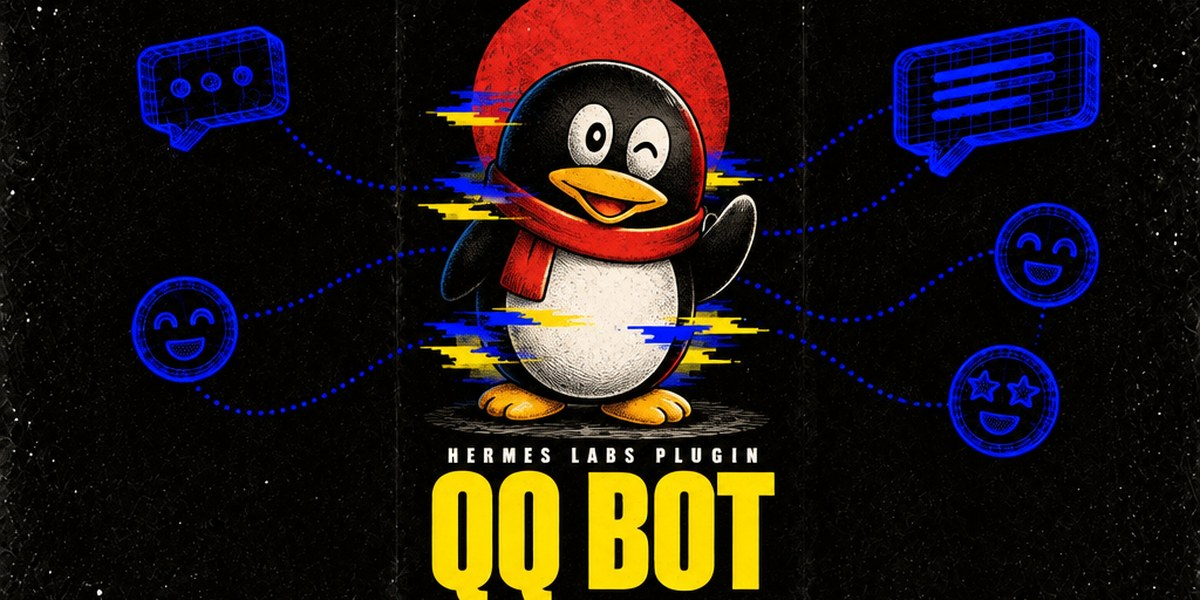
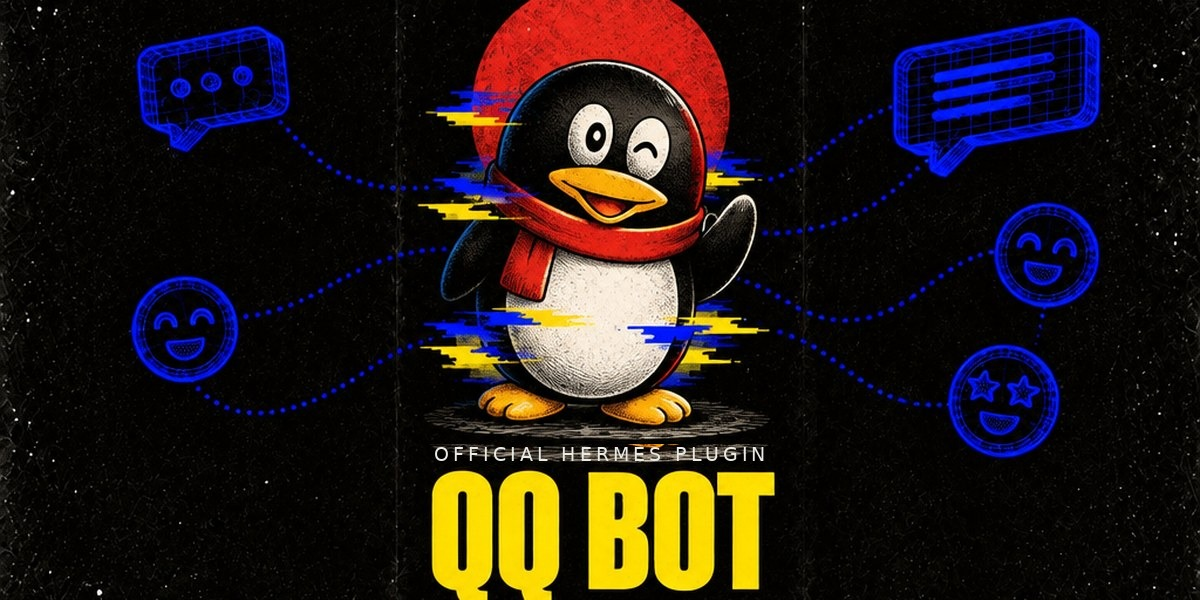
qqbot: package QQ Bot as an official plugin, installed by default
Re-homes the packaging from Hermes Labs to the official repo (Teknium's ruling: QQ Bot is an official
plugin with catalog default: true, the Weixin shape).

- plugin.yaml / pyproject.toml: homepage under hermes-official-plugins, requires_hermes ">=0.23.5"
  (the first release without bundled QQ Bot), no Labs / unsupported wording.
- README: official header, "installed by default, idle until configured"; root README card cell and the
  "Already used one of these?" entry.
- Card art relabelled OFFICIAL HERMES PLUGIN (1200x600).

Changed region(s): [[0.37, 0.72, 0.6475, 0.78]]

diff --git a/README.md b/README.md
@@ -126,6 +126,15 @@ Catalog entries come in two tiers:
 </tr>
 <tr>
 <td width="50%" valign="top">
+<a href="qqbot/"><img src="assets/qqbot.jpg" alt="QQ Bot plugin"></a>
+<h3><a href="qqbot/">QQ Bot</a></h3>
+<code>hermes plugins install qqbot</code>
+<p>A gateway platform for QQ over the official QQ Bot API v2: private chats, group @-mentions and guild channels over the bot WebSocket, text, markdown and native media replies, voice transcription, scan-to-configure setup and cron delivery with <code>deliver=qqbot</code>. Installed by default on every Hermes home; it stays idle until you add a QQ App ID and secret.</p>
+</td>
+<td width="50%" valign="top"></td>
+</tr>
+<tr>
+<td width="50%" valign="top">
 <a href="langfuse/"><img src="assets/langfuse.jpg" alt="Langfuse plugin"></a>
 <h3><a href="langfuse/">Langfuse</a></h3>
 <code>hermes plugins install langfuse</code>
@@ -238,9 +247,9 @@ Catalog entries come in two tiers:
 
 ### Already used one of these?
 
-Most plugins here used to live somewhere else: Home Assistant and Spotify were built into Hermes core and then briefly had their own repos, Langfuse shipped bundled with core as `observability/langfuse`, the Singularity/Apptainer terminal backend and the Camofox browser backend were built into core, MCP Serve was core's `hermes mcp serve`, and the rest each had a standalone `NousResearch/hermes-*` repo. **Except for MCP Serve, you don't need to do anything.**
+Most plugins here used to live somewhere else: Home Assistant and Spotify were built into Hermes core and then briefly had their own repos, Langfuse shipped bundled with core as `observability/langfuse`, the Singularity/Apptainer terminal backend, the Camofox browser backend and the QQ Bot platform were built into core, MCP Serve was core's `hermes mcp serve`, and the rest each had a standalone `NousResearch/hermes-*` repo. **Except for MCP Serve, you don't need to do anything.**
 
-- **You used the built-in Home Assistant, Spotify, Langfuse, Singularity or Camofox backend:** `hermes update`, or the first start after updating, installs the plugin from the catalog with your existing config, env vars and login.
+- **You used the built-in Home Assistant, Spotify, Langfuse, Singularity, Camofox backend or QQ Bot:** `hermes update`, or the first start after updating, installs the plugin from the catalog with your existing config, env vars and login.
 - **You installed it from the catalog:** the catalog now points here, so `hermes plugins update <name>` moves your install to this repo and keeps your files.
 - **You used the built-in `hermes import-agent`:** profiles that registered an import for `--sync` get the `agent-importers` plugin on update; anywhere else, running `hermes import-agent` prints the one-line install (`hermes plugins install agent-importers`).
 - **You used `hermes claw migrate` (OpenClaw):** it now comes with the same plugin. After `hermes plugins install agent-importers`, both `hermes import-agent openclaw` and the old `hermes claw migrate` / `hermes claw cleanup` work with the same flags.

diff --git a/qqbot/README.md b/qqbot/README.md
@@ -1,12 +1,8 @@
-<p align="center"><img src="../assets/qqbot.jpg" alt="QQ Bot, a Hermes Labs plugin" width="100%"></p>
+<p align="center"><img src="../assets/qqbot.jpg" alt="QQ Bot: official Hermes Agent plugin" width="100%"></p>
 
-# QQ Bot
+# QQ Bot for Hermes Agent
 
-> **Labs plugin: works, but unsupported.** QQ Bot is now a Hermes Labs plugin: built by Nous Research, not supported, and likely not maintained going forward. Fixes from the community are welcome. See [what "labs" means](../README.md#what-labs-means).
-
-Part of [Hermes Labs Plugins](../README.md): built by Nous Research, **not supported**. Formerly built into
-[hermes-agent](https://github.com/NousResearch/hermes-agent) core (`plugins/platforms/qqbot`); this directory
-carries its full history.
+> Part of the [Hermes Official Plugins](../README.md), Nous Research's official plugins for Hermes Agent. Formerly built into [Hermes Agent](https://github.com/NousResearch/hermes-agent) core (`plugins/platforms/qqbot`); this directory carries its full history.
 
 Connect Hermes to QQ through the **official QQ Bot API (v2)**: private (C2C) chats, group @-mentions and guild
 channels over QQ's bot WebSocket gateway, replies (text, markdown and native media) over the REST API, voice
@@ -15,6 +11,9 @@ transcription, scan-to-configure setup and cron delivery to a home channel.
 Everything an existing setup relies on is unchanged: platform name `qqbot`, every `QQ_*` / `QQBOT_*` env var
 (including the legacy `QQ_HOME_CHANNEL`), the `platforms.qqbot` config keys and `QQBOT_HOME_CHANNEL`. Hermes
 installs this plugin automatically for profiles that used the built-in QQ Bot platform.
+
+This plugin is **installed and enabled by default on every Hermes home** (catalog `default: true`). It does
+nothing until you configure it: with no `QQ_APP_ID` / `QQ_CLIENT_SECRET` the gateway never starts the adapter.
 
 ## Install
 
